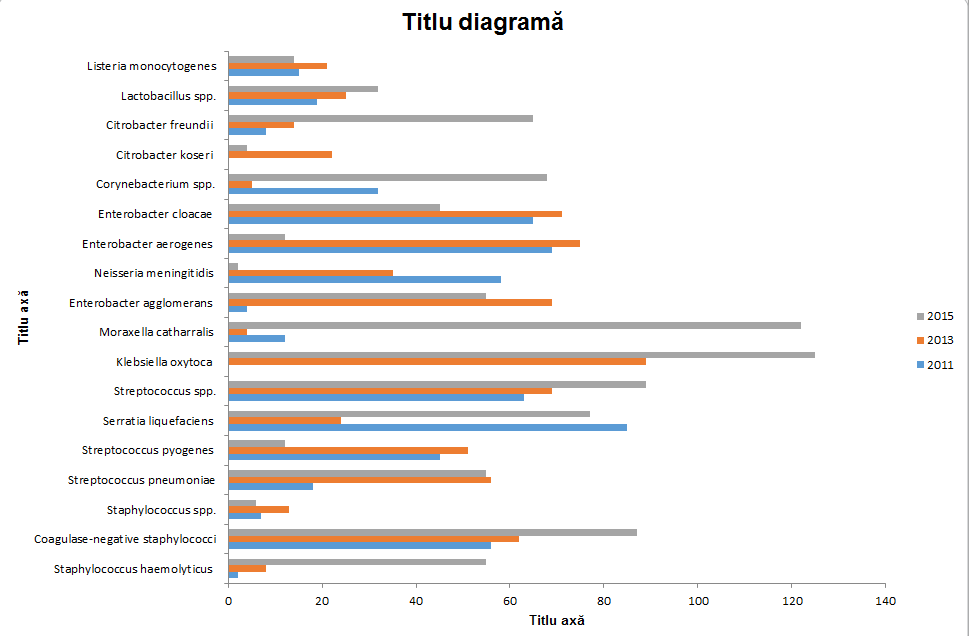
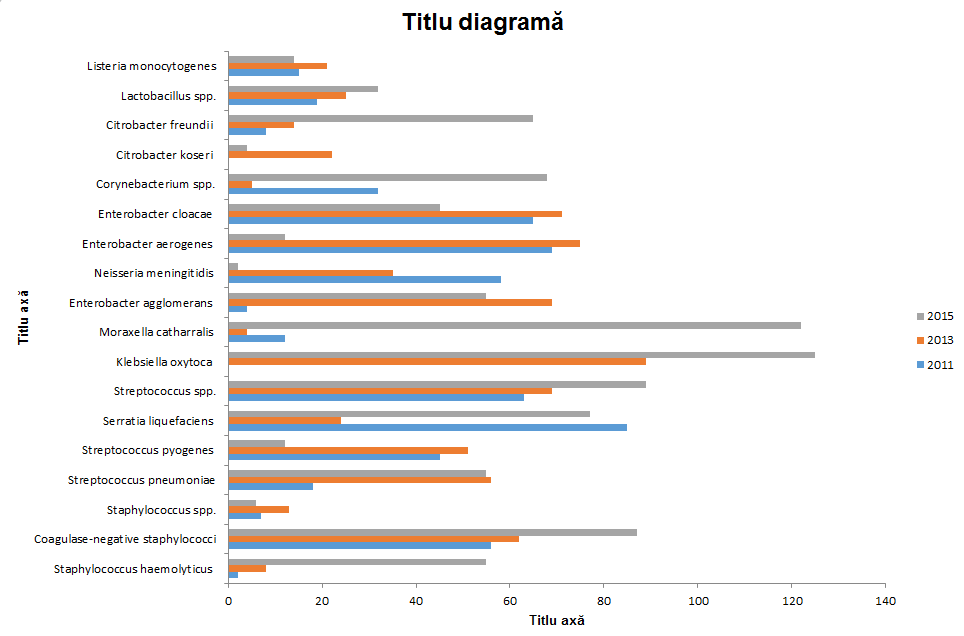
Add a new project and upload a cropped version of the germs chart to replace the original.

diff --git a/projects.htm b/projects.htm
@@ -52,9 +52,18 @@ div.desc {
   <div class="w3-third">
     <img src="./germsReportGrupedBarsExcel.PNG" style="width:100%" alt="A grouped bars graph made in Microsoft Excel 2010 to visualize some of the data.">
     <div class="desc">
-      <h4><b></b></h4>
+      <h4><b>Sorting through data... <br>Sortând informații...</b></h4>
       <p>&#129413 EN: Fictive data used to represent some of the (assigned to me) work I did to better visualize a bulk of information gathered across a few years. 
         I used successive filtering, sorting, COUNTA function, grouped bar and pie charts and new graph templates.<br>RO:</p>
+    </div>
+  </div>
+  <div class="w3-third">
+    <img src="./PropunereLogoColor.png" style="width:100%" alt="G initial made from circles and squares coloured with a gradient from red to blue through yellow.">
+    <div class="desc">
+      <h4><b>My logo proposal <br>Propunerea mea de logo</b></h4>
+      <p>I designed a new logo for a Romanian website dedicated to online payments, <a href="https://www.ghiseul.ro/">ghișeul.ro</a>.<br>
+        It was created using <a href="https://inkscape.org/">Inkscape</a> and ideas from <a href="https://www.logomakr.com">logomakr.com</a><br>
+        <a href="https://www.adr.gov.ro/adr-lanseaza-concursul-public-pentru-noul-logo-al-platformei-ghiseul-ro/">Learn more »</a></p>
     </div>
   </div>
 </div>
@@ -70,7 +79,7 @@ div.desc {
 </div>
 
 <h2>2020</h2>
-<h3>To be continued ...</h3>
+<h3>Soon</h3>
 <div class="w3-row" id="myGrid" style="margin-bottom:128px">
   <div class="w3-third">
     <img src="" style="width:100%" alt="">
@@ -105,7 +114,7 @@ div.desc {
   <a href="https://twitter.com/marius_telcean"><i class="fa fa-twitter w3-hover-opacity"></i></a>
   <a href="https://www.linkedin.com/in/marius-andrei-telcean-6a2454138"><i class="fa fa-linkedin w3-hover-opacity"></i></a>
   <p class="w3-medium">Powered by <a href="https://www.w3schools.com/w3css/default.asp" target="_blank" class="w3-hover-text-green">w3.css</a></p>
-  <p class="w3-medium">Updated 21 December 2021</p>
+  <p class="w3-medium">Updated 30 December 2021</p>
 </footer>
  
 <script>
